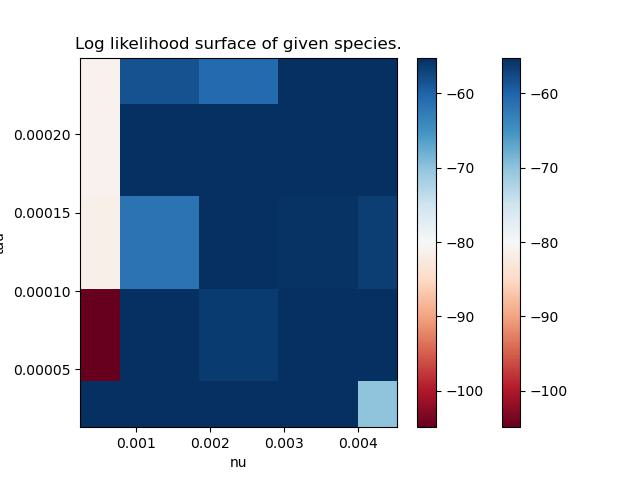
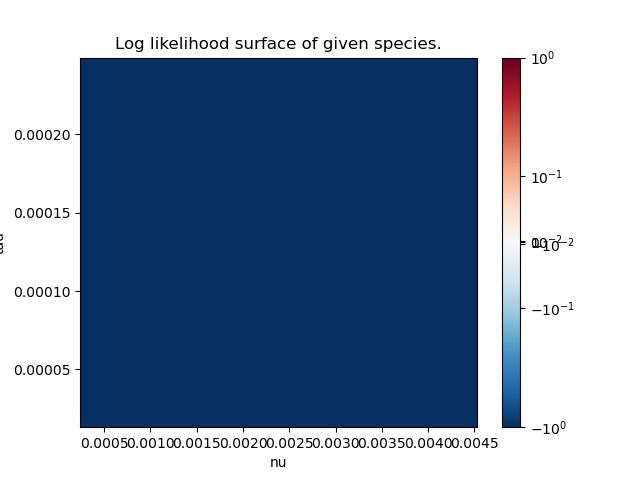
plot likelihood test.

diff --git a/Scripts/plot_likelihood.py b/Scripts/plot_likelihood.py
@@ -20,6 +20,8 @@ import scipy.optimize
 import matplotlib
 matplotlib.use('Agg') # Must be before importing matplotlib.pyplot or pylab!
 import matplotlib.pyplot as plt
+from matplotlib import ticker, cm
+
 
 class ArgumentParserNoArgHelp(argparse.ArgumentParser):
     """Like *argparse.ArgumentParser*, but prints help when no arguments."""
@@ -456,8 +458,11 @@ class PlotLikelihood():
 
                 fig, ax = plt.subplots()
 
-                c = ax.pcolormesh(x, y, z, cmap='RdBu', vmin=z_min, vmax=z_max)
-                fig.colorbar(c, ax=ax)
+                c = ax.pcolormesh(x, y, z,
+                       norm=matplotlib.colors.SymLogNorm(linthresh=0.03, linscale=0.03,
+                                              vmin=-1.0, vmax=1.0),
+                       cmap='RdBu_r')
+                # fig.colorbar(c, ax=ax)
                 ax.set_title('pcolormesh')
                 # set the limits of the plot to the limits of the data
                 ax.axis([x.min(), x.max(), y.min(), y.max()])
